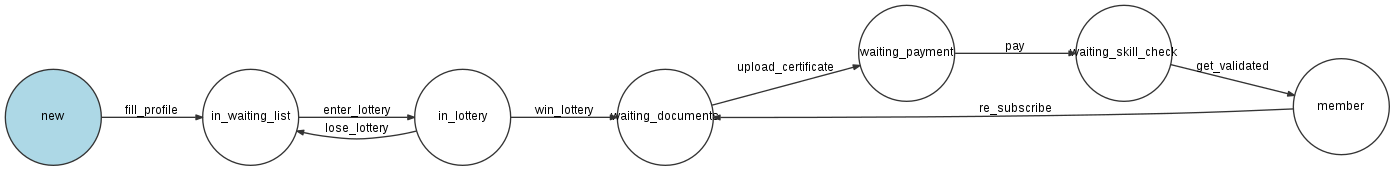
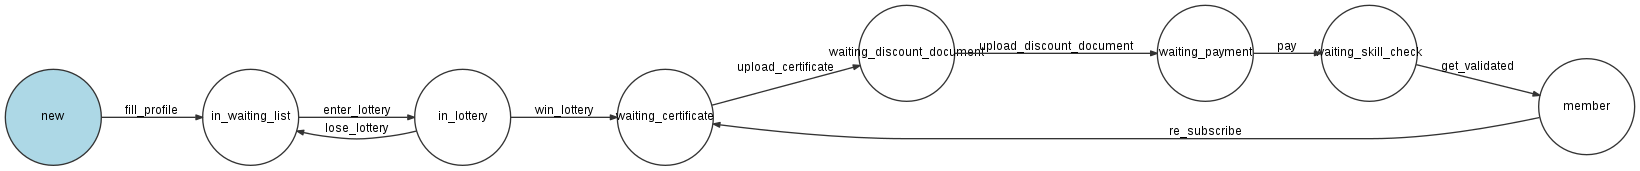
Split certificate and discount

diff --git a/src/AppBundle/Controller/DefaultController.php b/src/AppBundle/Controller/DefaultController.php
@@ -9,6 +9,7 @@ use Symfony\Component\HttpFoundation\Request;
 
 use Symfony\Component\Form\Extension\Core\Type\DateType;
 use Symfony\Component\Form\Extension\Core\Type\ChoiceType;
+use Vich\UploaderBundle\Form\Type\VichFileType;
 
 use AppBundle\Entity\User;
 
@@ -39,7 +40,57 @@ class DefaultController extends Controller
             }
             else
                 return $this->render('default/index.html.twig', [
-                    'form' => $form->createView(),
+                    'profile_form' => $form->createView(),
+                    'user' => $user,
+                    'places' => array_keys($repartition),
+                ]);
+        }
+
+        if ($user->getState() === 'waiting_certificate')
+        {
+            $form = $this->getCertificateForm($user);
+            $form->handleRequest($request);
+
+            if ($form->isSubmitted() && $form->isValid())
+            {
+                $user = $form->getData();
+
+                $workflow = $this->get('state_machine.workflow');
+                $workflow->apply($user, 'upload_certificate');
+
+                if (!$user->has_discount)
+                    $workflow->apply($user, 'upload_discount_document');
+
+                $em = $this->getDoctrine()->getManager();
+                $em->persist($user);
+                $em->flush();
+            }
+            else
+                return $this->render('default/index.html.twig', [
+                    'certificate_form' => $form->createView(),
+                    'user' => $user,
+                    'places' => array_keys($repartition),
+                ]);
+        }
+
+        if ($user->getState() === 'waiting_discount_document')
+        {
+            $form = $this->getDiscountDocumentForm($user);
+            $form->handleRequest($request);
+
+            if ($form->isSubmitted() && $form->isValid())
+            {
+                $user = $form->getData();
+                $workflow = $this->get('state_machine.workflow');
+                $workflow->apply($user, 'upload_discount_document');
+
+                $em = $this->getDoctrine()->getManager();
+                $em->persist($user);
+                $em->flush();
+            }
+            else
+                return $this->render('default/index.html.twig', [
+                    'discount_form' => $form->createView(),
                     'user' => $user,
                     'places' => array_keys($repartition),
                 ]);
@@ -51,6 +102,26 @@ class DefaultController extends Controller
             //            'errors' => $request->get('errors'),
             'places' => array_keys($repartition),
         ]);
+    }
+
+    protected function getCertificateForm(User $user)
+    {
+        return $this->createFormBuilder($user)
+            ->add('medicalCertificateFile', VichFileType::class, [
+                'label' => 'Certificat Médical',
+                'required' => true,
+                'allow_delete' => false,
+            ])->getForm();
+    }
+
+    protected function getDiscountDocumentForm(User $user)
+    {
+        return $this->createFormBuilder($user)
+            ->add('discountDocumentFile', VichFileType::class, [
+                'label' => 'Justificatif de tarif réduit',
+                'required' => true,
+                'allow_delete' => false,
+            ])->getForm();
     }
 
     protected function getUserEditForm(User $user)
